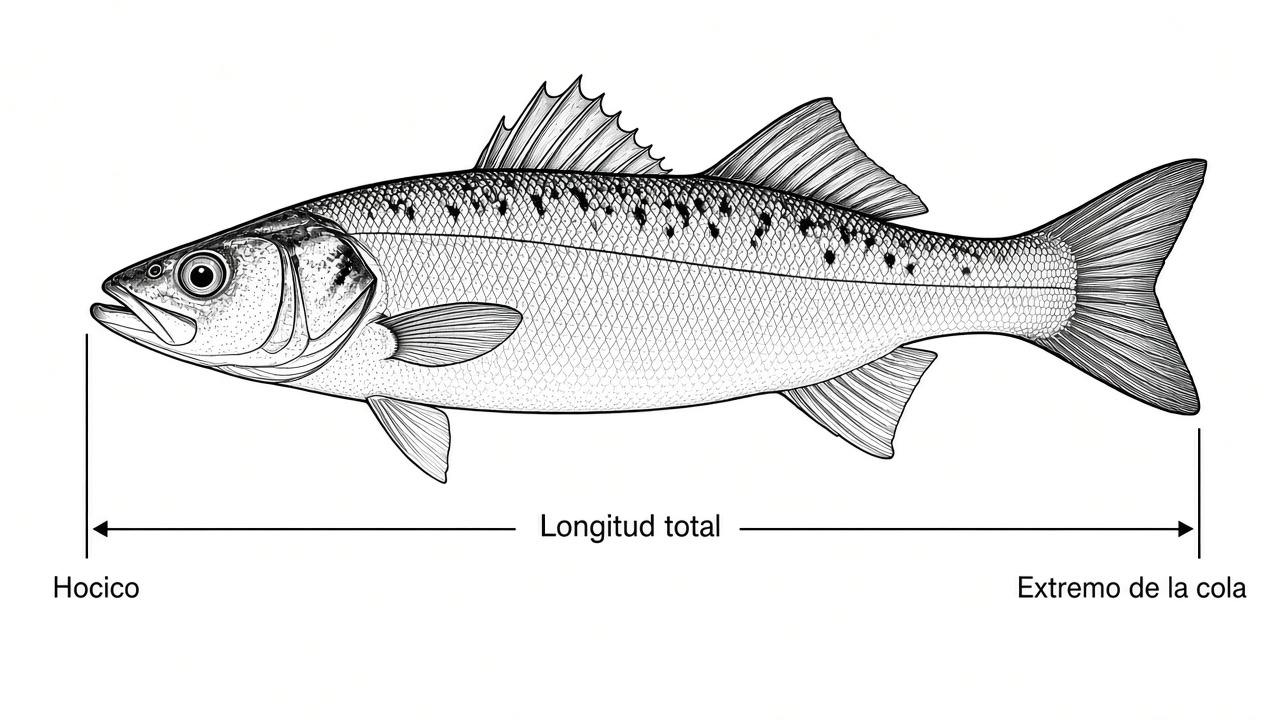
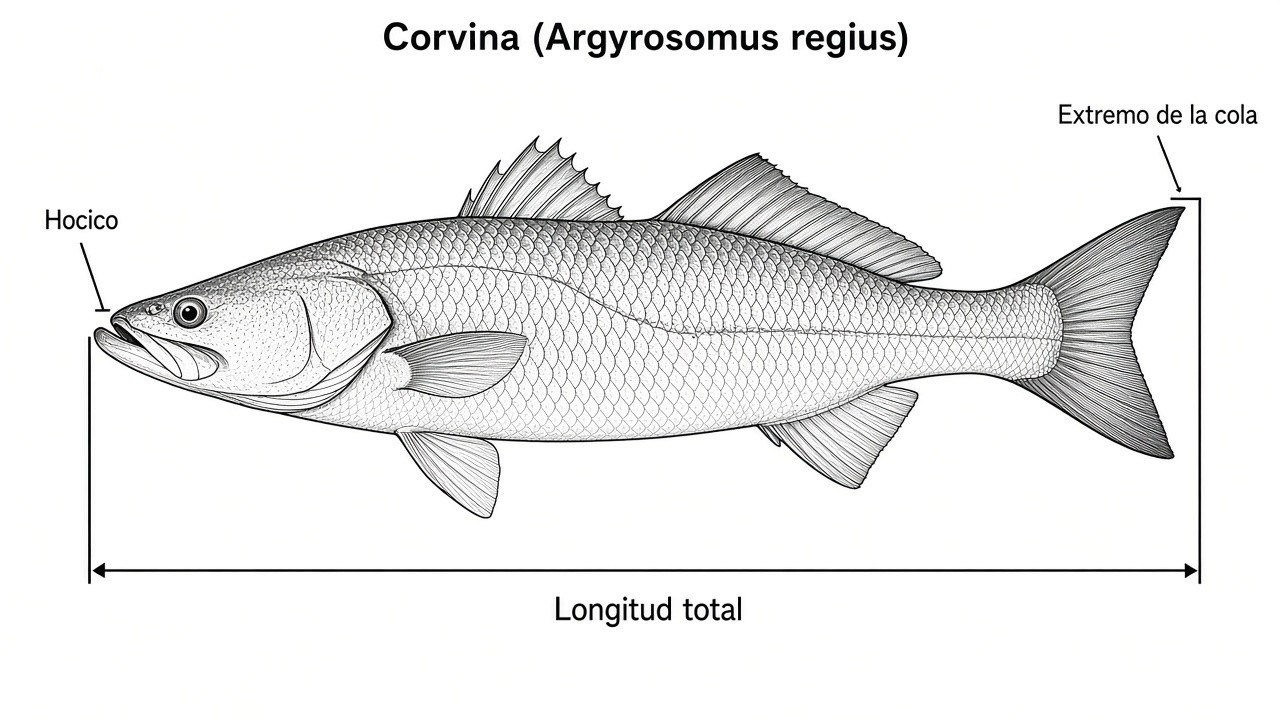
Auditoría gráficos de especies: placas y fotos correctas + particularidad en presentación
Corrige placas de medición casi duplicadas o con anatomía incorrecta (anjova, corvina, cacho),
sustituye fotos erróneas/duplicadas (barbo sin barbillas, mugílidos=llisa, herrera) y añade
la particularidad «Cómo medir · placa propia» en la presentación App Store (v3).

diff --git a/src/screens/OnboardingScreen.tsx b/src/screens/OnboardingScreen.tsx
@@ -28,7 +28,7 @@ const PHONE_W = Math.min(W * 0.86, 360);
 const PHONE_H = Math.min(H * 0.52, 540);
 const nativo = Platform.OS !== "web";
 
-type SlideId = "legal" | "pinta" | "modos" | "intima" | "pin" | "campo";
+type SlideId = "legal" | "pinta" | "modos" | "medir" | "intima" | "pin" | "campo";
 
 type Slide = {
   id: SlideId;
@@ -85,6 +85,15 @@ export default function OnboardingScreen({ onDone }: { onDone: () => void }) {
           ? "Elige cómo vas a pescar y se alinean mapa, especies, aparejos y el ritual de salida — también kayak o barco."
           : `En ${nombreProv}: mapa de tramos, especies continentales, montajes y «Salgo a pescar» paso a paso.`,
         accent: ["#1a5f78", "#134a5c", "#0c3340"],
+        tonoOnda: "agua",
+      },
+      {
+        id: "medir",
+        eyebrow: "Particularidad · ficha de especie",
+        titulo: "Cómo medir · placa propia",
+        texto:
+          "Cada especie tiene su gráfico: longitud total, manto o peso. Sin reutilizar siluetas ni confundir lubina con corvina.",
+        accent: ["#1b6a5a", "#134a42", "#0c2e2a"],
         tonoOnda: "agua",
       },
       {
@@ -313,6 +322,7 @@ function MockUI({
   if (id === "legal") return <MockLegal nombreProv={nombreProv} activo={activo} />;
   if (id === "pinta") return <MockPinta nombreProv={nombreProv} activo={activo} />;
   if (id === "modos") return <MockModos nombreProv={nombreProv} esCosta={esCosta} activo={activo} />;
+  if (id === "medir") return <MockMedir activo={activo} />;
   return <MockCampo activo={activo} esCosta={esCosta} />;
 }
 
@@ -553,6 +563,49 @@ function MockModos({
               : "Todo el flujo apunta a tu primera salida"}
           </Text>
         </View>
+      </Animated.View>
+    </LinearGradient>
+  );
+}
+
+function MockMedir({ activo }: { activo: boolean }) {
+  const v = useReveal(activo);
+  const y = v.interpolate({ inputRange: [0, 1], outputRange: [16, 0] });
+  const fichas = [
+    { nombre: "Lubina", cota: "Longitud total · hocico → cola", patron: "cm" },
+    { nombre: "Corvina", cota: "Placa propia · no reutiliza lubina", patron: "cm" },
+    { nombre: "Pulpo", cota: "Peso del ejemplar entero", patron: "kg" },
+    { nombre: "Sepia", cota: "Longitud del manto", patron: "cm" },
+  ];
+  return (
+    <LinearGradient colors={["#f4faf8", "#e2efea"]} style={m.fill}>
+      <Text style={[m.navDisplay, { color: COLORS.primaryDark }]}>Ficha · especie</Text>
+      <Text style={[m.navSub, { color: COLORS.textSecondary }]}>Cómo medir · gráfica única</Text>
+      <Animated.View style={{ opacity: v, transform: [{ translateY: y }], marginTop: 10, gap: 7, paddingHorizontal: 10 }}>
+        <View style={m.medirHero}>
+          <Text style={m.medirHeroKicker}>Particularidad</Text>
+          <Text style={m.medirHeroTitle}>Una placa por especie</Text>
+          <View style={m.medirCota}>
+            <Text style={m.medirCotaLbl}>Hocico</Text>
+            <View style={m.medirCotaLine} />
+            <Text style={m.medirCotaMid}>Longitud total</Text>
+            <View style={m.medirCotaLine} />
+            <Text style={m.medirCotaLbl}>Cola</Text>
+          </View>
+          <Text style={m.medirHeroPie}>Norma UE / RD 560 · sin siluetas repetidas</Text>
+        </View>
+        {fichas.map((f) => (
+          <View key={f.nombre} style={m.medirRow}>
+            <View style={m.medirDot} />
+            <View style={{ flex: 1 }}>
+              <Text style={m.medirNombre}>{f.nombre}</Text>
+              <Text style={m.medirCotaTxt}>{f.cota}</Text>
+            </View>
+            <View style={m.medirBadge}>
+              <Text style={m.medirBadgeTxt}>{f.patron}</Text>
+            </View>
+          </View>
+        ))}
       </Animated.View>
     </LinearGradient>
   );
@@ -1115,5 +1168,100 @@ const m = StyleSheet.create({
     color: COLORS.textMuted,
     fontFamily: FONTS.semibold,
     fontSize: 11,
+  },
+  medirHero: {
+    backgroundColor: "#fff",
+    borderRadius: RADIUS.md,
+    padding: 12,
+    borderWidth: 1,
+    borderColor: COLORS.border,
+    marginBottom: 2,
+  },
+  medirHeroKicker: {
+    fontSize: 10,
+    fontFamily: FONTS.extrabold,
+    fontWeight: "800",
+    color: COLORS.water,
+    textTransform: "uppercase",
+    letterSpacing: 0.6,
+  },
+  medirHeroTitle: {
+    marginTop: 2,
+    fontFamily: FONTS.display,
+    fontSize: 18,
+    color: COLORS.primaryDark,
+    letterSpacing: -0.3,
+  },
+  medirCota: {
+    marginTop: 12,
+    flexDirection: "row",
+    alignItems: "center",
+    gap: 4,
+  },
+  medirCotaLbl: {
+    fontSize: 10,
+    fontFamily: FONTS.bold,
+    fontWeight: "700",
+    color: COLORS.textSecondary,
+  },
+  medirCotaMid: {
+    fontSize: 11,
+    fontFamily: FONTS.extrabold,
+    fontWeight: "800",
+    color: COLORS.primary,
+  },
+  medirCotaLine: {
+    flex: 1,
+    height: 2,
+    backgroundColor: COLORS.primary,
+    borderRadius: 1,
+  },
+  medirHeroPie: {
+    marginTop: 8,
+    fontSize: 11,
+    fontFamily: FONTS.semibold,
+    color: COLORS.textMuted,
+  },
+  medirRow: {
+    flexDirection: "row",
+    alignItems: "center",
+    backgroundColor: "#fff",
+    borderRadius: RADIUS.md,
+    paddingVertical: 9,
+    paddingHorizontal: 10,
+    borderWidth: 1,
+    borderColor: COLORS.border,
+    gap: 8,
+  },
+  medirDot: {
+    width: 8,
+    height: 8,
+    borderRadius: 4,
+    backgroundColor: COLORS.water,
+  },
+  medirNombre: {
+    fontFamily: FONTS.bold,
+    fontWeight: "700",
+    fontSize: 13,
+    color: COLORS.textPrimary,
+  },
+  medirCotaTxt: {
+    marginTop: 1,
+    fontFamily: FONTS.semibold,
+    fontSize: 11,
+    color: COLORS.textSecondary,
+  },
+  medirBadge: {
+    backgroundColor: COLORS.primaryLight,
+    borderRadius: RADIUS.pill,
+    paddingHorizontal: 8,
+    paddingVertical: 4,
+  },
+  medirBadgeTxt: {
+    fontSize: 10,
+    fontFamily: FONTS.extrabold,
+    fontWeight: "800",
+    color: COLORS.primaryDark,
+    textTransform: "uppercase",
   },
 });

diff --git a/src/services/offlineService.ts b/src/services/offlineService.ts
@@ -5,7 +5,7 @@ import { getProvinciaIdActiva } from "../provincias/runtime";
 const CLAVE_CACHE_LEGACY = "@pesca_castellon/cache_offline_v1";
 const CLAVE_ONBOARDING = "@pesca_castellon/onboarding_visto";
 /** Presentación estilo App Store (virtudes). Versionada para poder mostrarla de nuevo tras rediseños. */
-const CLAVE_PRESENTACION_VIRTUDES = "@pesca_castellon/presentacion_virtudes_v2";
+const CLAVE_PRESENTACION_VIRTUDES = "@pesca_castellon/presentacion_virtudes_v3";
 
 function claveCache(): string {
   return `@pesca_app/${getProvinciaIdActiva()}/cache_offline_v1`;

diff --git a/assets/especies/ATTRIBUTION.md b/assets/especies/ATTRIBUTION.md
@@ -67,3 +67,9 @@ Translation by User:Theklan
 - `palometon.jpg` — File:Leccia Amia 26 kg .jpg — CC BY-SA 4.0 — Mariella Rubegni
 - `espeton.jpg` — File:Bicudas (Sphyraena viridensis), Cabo de Palos, España, 2022-07-15, DD 09.jpg — CC BY-SA 4.0 — Diego Delso
 - `mabra.jpg` — File:Chelon ramada Italy.jpg — CC BY 4.0 — etrusko25
+
+## Auditoría 2026-09 (correspondencia especie ↔ foto)
+- `barbo.jpg` — File:Barbus graellsii 03 by-dpc.jpg — CC BY 3.0 — David Perez (sustituye foto sin barbillas)
+- `barbo_gitano.jpg` — File:Barbo gitano (Barbus sclateri).jpg — CC BY-SA 4.0 — Javier Vázquez Rodríguez (reconfirmado)
+- `mugilidos.jpg` — File:Muble (Chelon labrosus), Parque natural de la Arrábida, Portugal, 2021-09-10, DD 48.jpg — CC BY-SA 4.0 — Diego Delso (antes duplicaba `llisa.jpg`)
+- `herrera.jpg` — File:Peces herrera (Lithognathus mormyrus), Madeira, Portugal, 2019-05-30, DD 01.jpg — CC BY-SA 4.0 — Diego Delso

diff --git a/README.md b/README.md
@@ -20,8 +20,9 @@ Expo (iOS/Android) + versión web para GitHub Pages / “Añadir a inicio” en 
 
 ### Entrada y privacidad
 - **Presentación estilo App Store** al entrar (pantallas a pantalla completa con
-  virtudes claras: ¿Puedo?, ¿Pinta?, **Río · Orilla · Barco**, privacidad, PIN y
-  «Salgo a pescar»). Marca + eslogan, mockups vivos y CTA “Empezar a pescar”.
+  virtudes claras: ¿Puedo?, ¿Pinta?, **Río · Orilla · Barco**, **Cómo medir**
+  (placa propia por especie), privacidad, PIN y «Salgo a pescar»). Marca + eslogan,
+  mockups vivos y CTA “Empezar a pescar”.
   Se cierra con la **✕** arriba a la derecha. Se puede volver a ver desde **Ajustes**.
 - **Bloqueo con PIN** (4–8 dígitos), configurable en Ajustes, con teclado numérico
   a pantalla completa al abrir o al volver de segundo plano.

diff --git a/assets/medicion/especies/ATTRIBUTION.md b/assets/medicion/especies/ATTRIBUTION.md
@@ -5,3 +5,4 @@ Placas técnicas en español (longitud total / peso) usadas en «Cómo medir».
 - Estilo inspirado en diagramas de talla tipo NOAA Fish Length (dominio público) y Anexo IV Reg. (CE) 1967/2006.
 - Ilustraciones generadas para la app; etiquetas en español; criterio legal UE/RD 560 (cm) o peso (kg).
 - No sustituyen el texto normativo oficial del BOE / DOUE.
+- Auditoría 2026-09: regeneradas `anjova`, `corvina` y `cacho` (antes casi idénticas o anatomía incorrecta).
